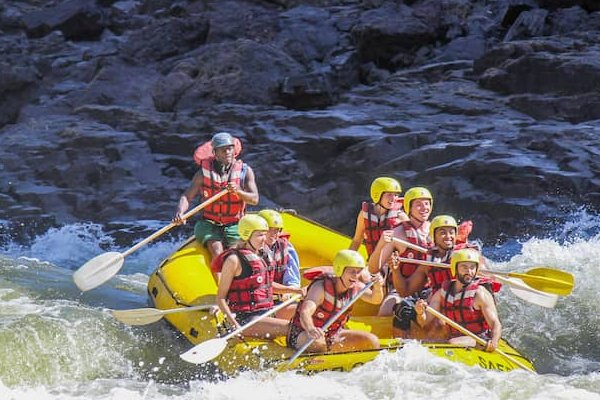
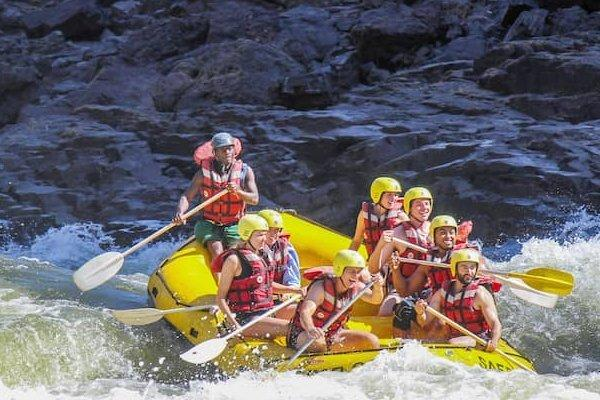
images

diff --git a/wwr/about.html b/wwr/about.html
@@ -41,7 +41,7 @@
             <p>Lorem ipsum dolor sit amet consectetur, adipisicing elit. Asperiores eum perferendis excepturi id a
                 quidem possimus ipsam, minima, quam officia magni! Quibusdam illum culpa maiores asperiores
                 officiis, reiciendis aspernatur dignissimos!</p>
-            <img src="images/rafting36_1024.jpg" alt="history">
+            <img src="images/rafting-large.jpg" alt="history">
             <p>Lorem ipsum dolor sit amet consectetur, adipisicing elit. Asperiores eum perferendis excepturi id a
                 quidem possimus ipsam, minima, quam officia magni! Quibusdam illum culpa maiores asperiores
                 officiis, reiciendis aspernatur dignissimos!</p>
